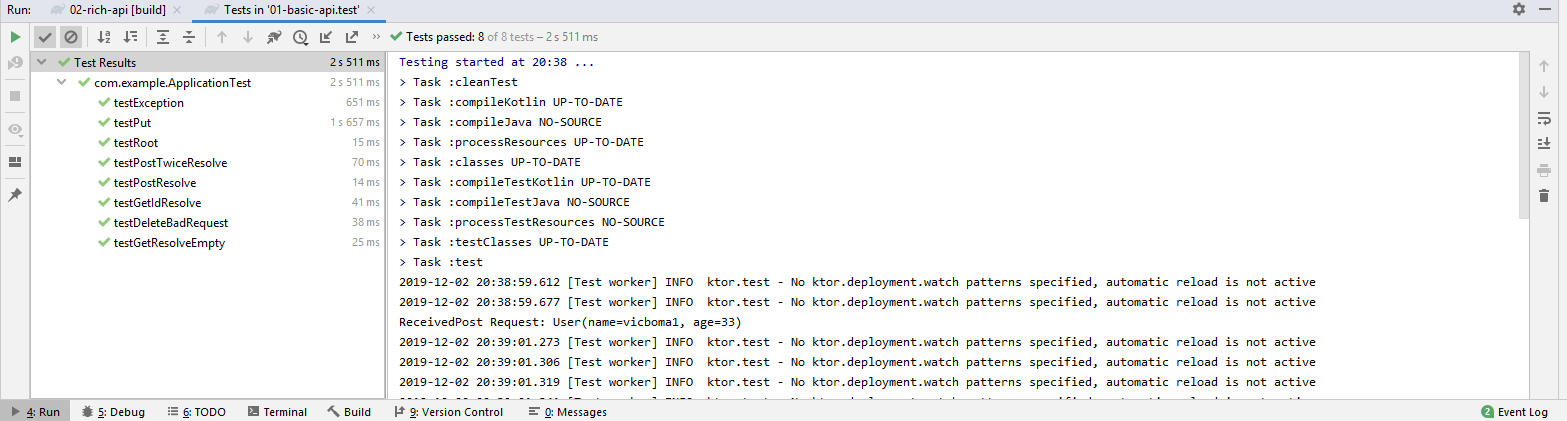
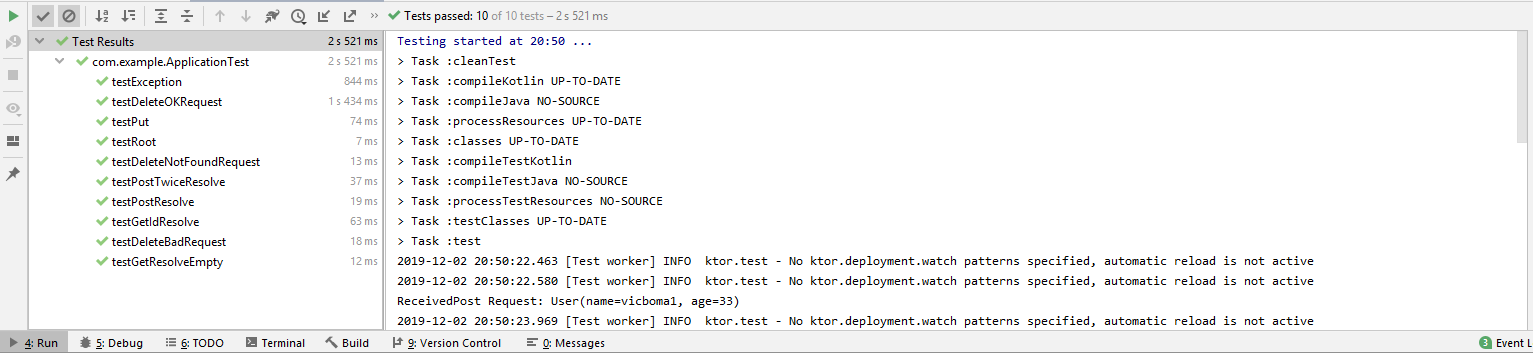
adding new test & image

diff --git a/01-basic-api/test/ApplicationTest.kt b/01-basic-api/test/ApplicationTest.kt
@@ -93,6 +93,17 @@ class ApplicationTest {
         delete("del",HttpStatusCode.BadRequest,"{\n" + "  \"error\": \"id is null\"\n" + "}")
     }
 
+    @Test
+    fun testDeleteNotFoundRequest() {
+        delete("1",HttpStatusCode.NotFound,"{\n" + "  \"error\": \"User 1 is not found\"\n" + "}")
+    }
+
+    @Test
+    fun testDeleteOKRequest() {
+        post(1)
+        delete("1",HttpStatusCode.OK,"{\n" +"  \"id\": 1,\n" + "  \"name\": \"vicboma1\",\n" + "  \"age\": 33\n" + "}")
+    }
+
     private fun delete(id:String, code: HttpStatusCode, expected :String) =
         withTestApplication({ main(userHandlerMock!!) }) {
             handleRequest(HttpMethod.Get, "$REST_ENDPOINT_USER/$id").apply {
